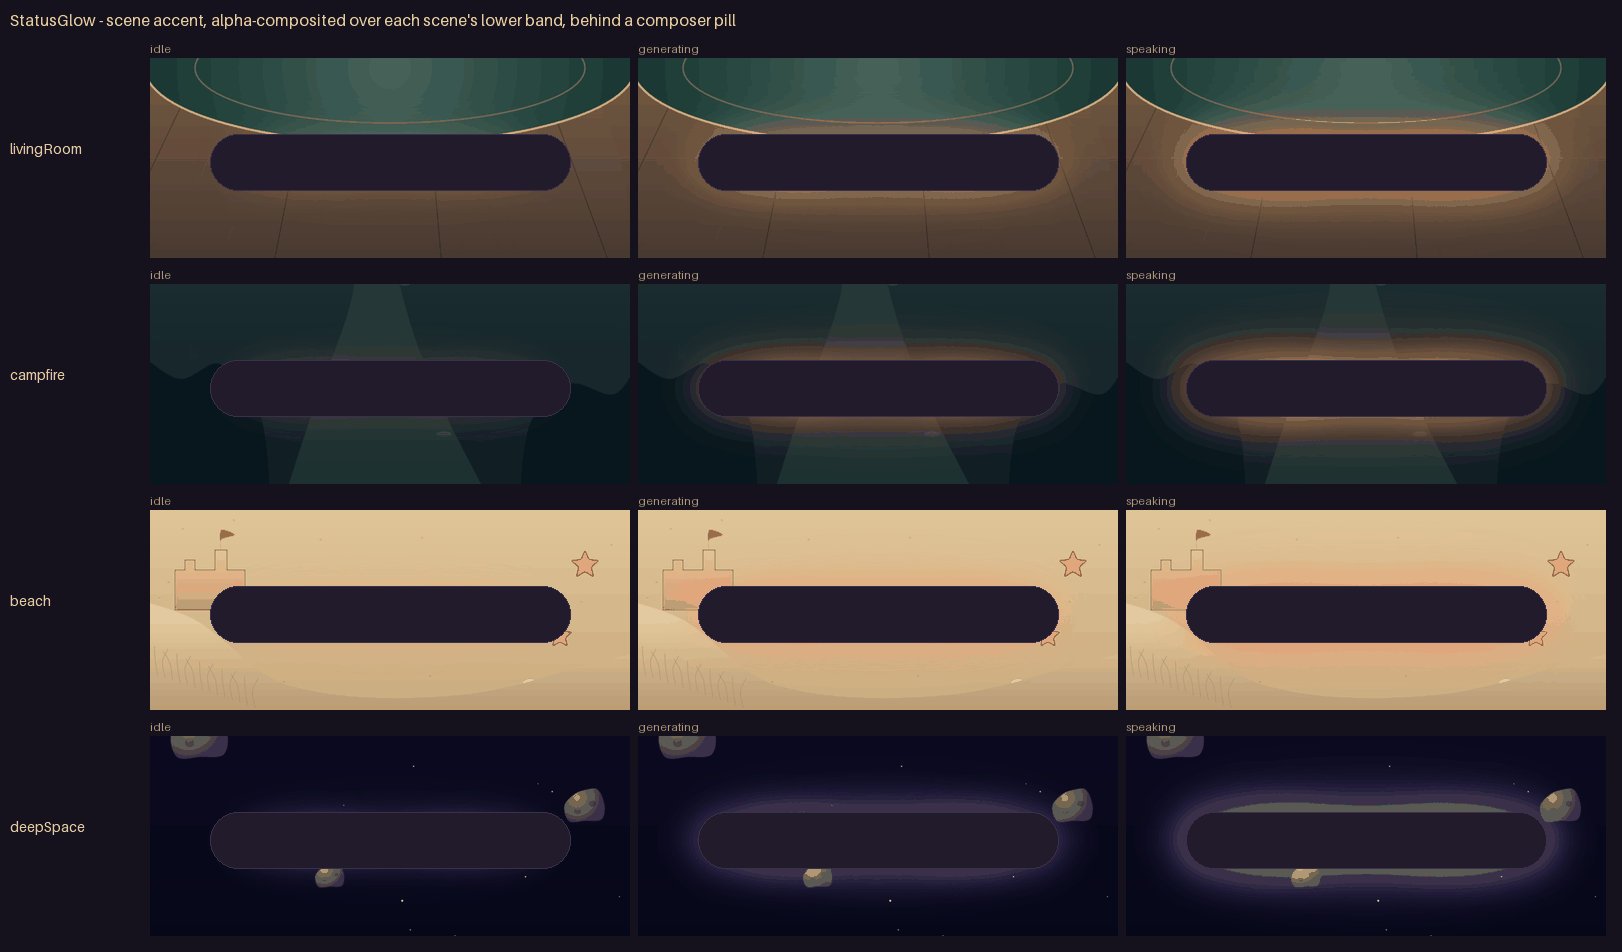
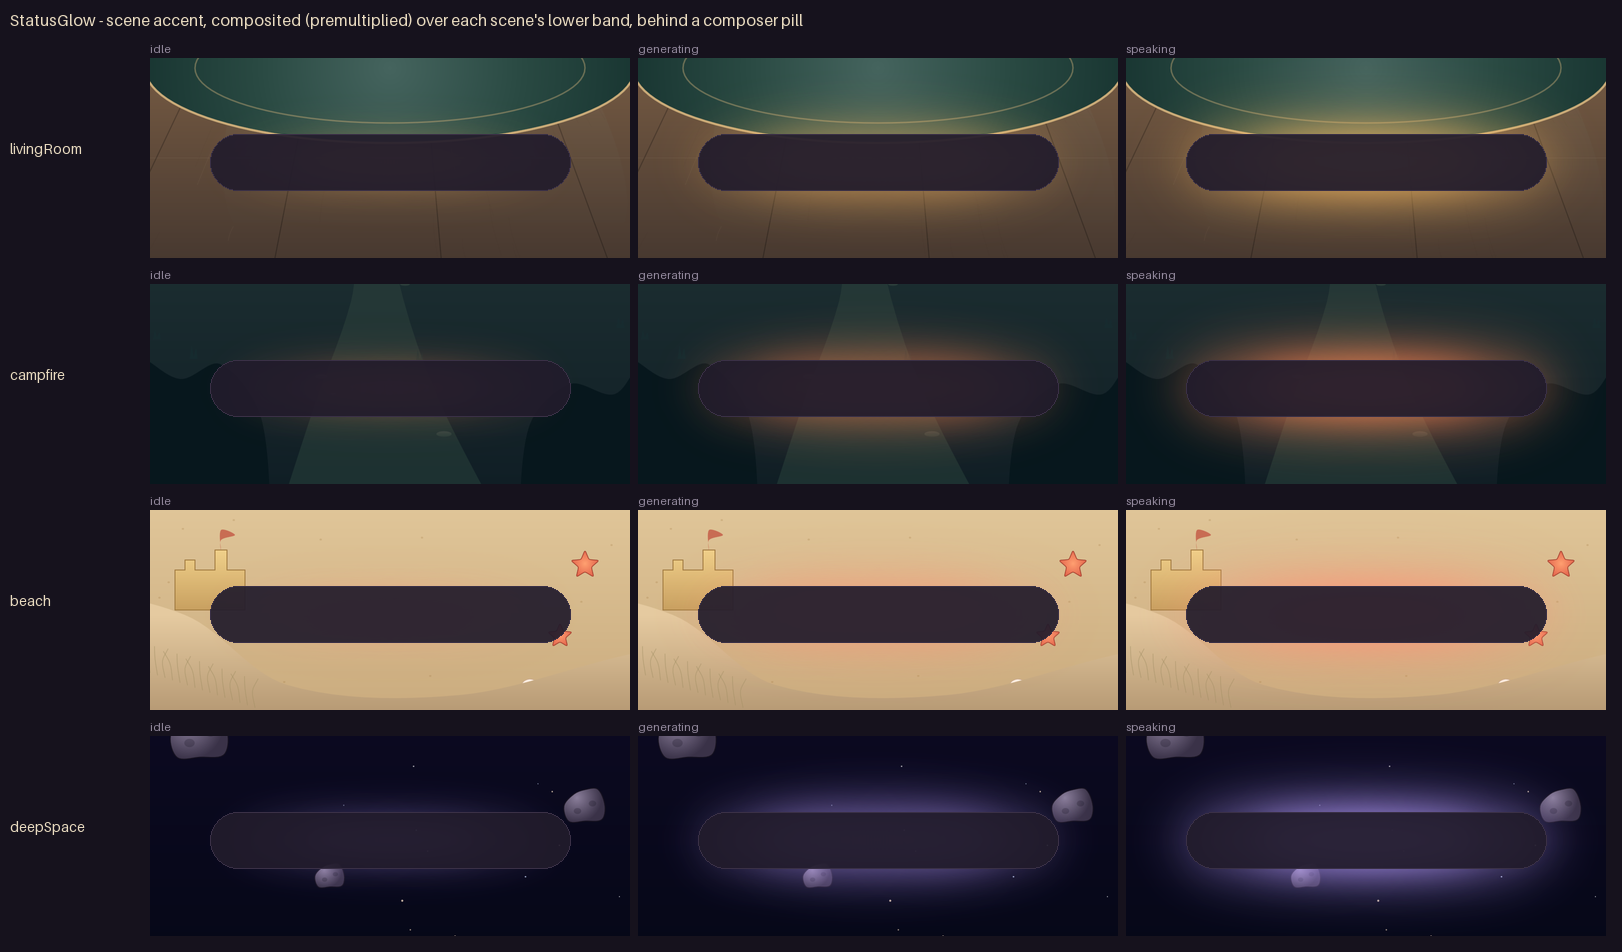
rive: StatusGlow reads as one smooth light; fix glow review compositing
The rings and the olive band came from the review sheet, not the paint: a
shared 128-colour palette (no dither) stepped the falloff and mapped violet to
grey-olive, and k/alpha colour recovery skewed hue at low alpha. Glow sheets are
now full colour and composited premultiplied (bg*(w-k)/255 + k). The art had
two lobes with a dim centre; rebalanced core/lobes/haze/shimmer to one peak.
glow_zoom.png and glow_profile.txt prove a monotonic falloff in all 12 cases.

diff --git a/rive/tools/review_ui_kit.py b/rive/tools/review_ui_kit.py
@@ -73,7 +73,8 @@ def font(sz: int) -> ImageFont.ImageFont:
     return ImageFont.load_default(size=sz)
 
 
-def strip_sheet(rows: list[tuple[str, list[tuple[str, Image.Image]]]], out: Path, title: str) -> None:
+def strip_sheet(rows: list[tuple[str, list[tuple[str, Image.Image]]]], out: Path, title: str,
+                quantize: bool = True) -> None:
     """rows: (row label, [(cell label, image)])"""
     cw = max(im.width for _, cells in rows for _, im in cells)
     ch = max(im.height for _, cells in rows for _, im in cells)
@@ -90,7 +91,9 @@ def strip_sheet(rows: list[tuple[str, list[tuple[str, Image.Image]]]], out: Path
             sheet.paste(im, (x, y + 18))
             dr.text((x, y + 2), cl, fill=(150, 140, 160), font=font(11))
     out.parent.mkdir(parents=True, exist_ok=True)
-    sheet.quantize(colors=128, method=Image.Quantize.MEDIANCUT, dither=Image.Dither.NONE).save(out, optimize=True)
+    if quantize:  # crisp vector sheets only; smooth gradients keep full colour
+        sheet = sheet.quantize(colors=128, method=Image.Quantize.MEDIANCUT, dither=Image.Dither.NONE)
+    sheet.save(out, optimize=True)
     print("wrote", out.relative_to(ROOT))
 
 
@@ -159,23 +162,34 @@ def _pad(im: Image.Image, size: int) -> Image.Image:
     return c
 
 
-def glow_alpha(phase_args: str, frame: int, tag: str, accent: str = "FFF4B860") -> Image.Image:
-    """RGBA glow recovered from black + white backdrop captures."""
+def glow_layers(phase_args: str, frame: int, tag: str, accent: str = "FFF4B860") -> tuple[Image.Image, Image.Image]:
+    """The glow captured over black (k = colour x alpha, premultiplied) and over white (w).
+
+    Over any background the exact result is bg * (w - k) / 255 + k, per channel: no division, so
+    no hue error at low alpha (the earlier colour = k / alpha recovery amplified 8-bit noise)."""
     args = f"{phase_args} --data=accent={accent} --advance={frame}"
     k = shot(project("FF000000"), "StatusGlow", WORK / "shots" / tag / "k.png", args, (480, 200))
     w = shot(project("FFFFFFFF"), "StatusGlow", WORK / "shots" / tag / "w.png", args, (480, 200))
-    alpha = ImageChops.invert(ImageChops.subtract(w.convert("L"), k.convert("L")))
-    rgb = Image.new("RGB", k.size)
-    kp, ap = k.load(), alpha.load()
-    rp = rgb.load()
-    for y in range(k.height):
-        for x in range(k.width):
-            a = ap[x, y]
-            if a:
-                rp[x, y] = tuple(min(255, round(v * 255 / a)) for v in kp[x, y])
-    rgba = rgb.convert("RGBA")
-    rgba.putalpha(alpha)
-    return rgba
+    return k, w
+
+
+def over(bg: Image.Image, k: Image.Image, w: Image.Image) -> Image.Image:
+    inv = ImageChops.subtract(w, k)                      # 255 * (1 - alpha), per channel
+    return ImageChops.add(ImageChops.multiply(bg.convert("RGB"), inv), k)
+
+
+def alpha_of(k: Image.Image, w: Image.Image) -> Image.Image:
+    return ImageChops.invert(ImageChops.subtract(w, k).convert("L"))
+
+
+PILL = (60, 76, 420, 132)
+
+
+def draw_pill(im: Image.Image) -> Image.Image:
+    im = im.convert("RGBA")
+    layer = Image.new("RGBA", im.size, (0, 0, 0, 0))
+    ImageDraw.Draw(layer).rounded_rectangle(PILL, radius=28, fill=(33, 27, 43, 235), outline=(58, 48, 70, 255))
+    return Image.alpha_composite(im, layer).convert("RGB")
 
 
 def glow(pool: ThreadPoolExecutor) -> None:
@@ -187,36 +201,47 @@ def glow(pool: ThreadPoolExecutor) -> None:
               ("idle>speaking", change("phase=idle", "phase=speaking"), [1, 7, 13, 19, 25, 31])]
     rows = run_rows(p, "StatusGlow", specs, (480, 200), "glow", pool)
     rows = [(lab, [(cl, im.resize((240, 100), Image.LANCZOS)) for cl, im in cells]) for lab, cells in rows]
-    strip_sheet(rows, OUT / "glow_phases.png", "StatusGlow - phases over ink #16121D, every 500 ms")
-    # over each scene: alpha-recovered glow composited on the scene rest pose, behind a composer pill
-    cells = []
-    futs = {}
-    for s in SCENES:
-        for ph in ("idle", "generating", "speaking"):
-            futs[(s, ph)] = pool.submit(glow_alpha, f"--data=phase={ph}", 91, f"glow_{s}_{ph}", SCENE_ACCENT[s])
+    # smooth light: never palette-quantise glow sheets (a shared 128-colour palette is what drew
+    # stepped rings and mapped violet to olive in the first sheets)
+    strip_sheet(rows, OUT / "glow_phases.png", "StatusGlow - phases over ink #16121D, every 500 ms", quantize=False)
+    phases = ("idle", "generating", "speaking")
+    futs = {(s, ph): pool.submit(glow_layers, f"--data=phase={ph}", 91, f"glow_{s}_{ph}", SCENE_ACCENT[s])
+            for s in SCENES for ph in phases}
     scene_imgs = {s: pool.submit(shot, ROOT / "rive" / "scenes" / s, "Scene", WORK / "shots" / f"scene_{s}.png",
                                  "--advance=1", (1080, 1920)) for s in SCENES}
-    rows = []
+    rows, zooms, report = [], [], []
+    worst_border, all_mono = 0, True
     for s in SCENES:
-        bg = scene_imgs[s].result().crop((60, 1500, 1020, 1900)).resize((480, 200), Image.LANCZOS).convert("RGBA")
+        bg = scene_imgs[s].result().crop((60, 1500, 1020, 1900)).resize((480, 200), Image.LANCZOS)
         row = []
-        for ph in ("idle", "generating", "speaking"):
-            g = futs[(s, ph)].result()
-            comp = Image.alpha_composite(bg, g)
-            dr = ImageDraw.Draw(comp)
-            dr.rounded_rectangle((60, 76, 420, 132), radius=28, fill=(33, 27, 43, 235), outline=(58, 48, 70, 255))
-            row.append((ph, comp.convert("RGB")))
+        for ph in phases:
+            k, w = futs[(s, ph)].result()
+            comp = draw_pill(over(bg, k, w))
+            row.append((ph, comp))
+            if (s in ("livingRoom", "campfire") and ph in ("generating", "speaking")) or (s == "deepSpace" and ph == "speaking"):
+                # left end + top falloff at 3x, nearest-neighbour so no smoothing hides steps
+                zooms.append((f"{s} {ph}", comp.crop((0, 30, 160, 110)).resize((480, 240), Image.NEAREST)))
+            a = alpha_of(k, w)
+            border = max(max(a.getpixel((x, y)) for x in range(480) for y in (0, 199)),
+                         max(a.getpixel((x, y)) for y in range(200) for x in (0, 479)))
+            worst_border = max(worst_border, border)
+            col = [a.getpixel((240, y)) for y in range(0, PILL[1] + 1, 4)]           # top edge -> pill
+            lin = [a.getpixel((x, 104)) for x in range(0, PILL[0] + 1, 4)]           # left edge -> pill
+            mono = all(b2 >= b1 - 1 for b1, b2 in zip(col, col[1:])) and all(b2 >= b1 - 1 for b1, b2 in zip(lin, lin[1:]))
+            all_mono &= mono
+            hues = {comp.getpixel((x, y)) for x, y in ((240, 60), (120, 70), (40, 104))}
+            report.append(f"{'PASS' if mono else 'FAIL'}  {s:10} {ph:10} alpha top->pill x=240 {col}  "
+                          f"left->pill y=104 {lin}  border {border}/255  samples {sorted(hues)}")
         rows.append((s, row))
     strip_sheet(rows, OUT / "glow_over_scenes.png",
-                "StatusGlow - scene accent, alpha-composited over each scene's lower band, behind a composer pill")
-    # edge check: alpha at the artboard border must be ~0 (no hard clip edge)
-    worst = 0
-    for (s, ph), f in futs.items():
-        a = f.result().getchannel("A")
-        border = [a.getpixel((x, y)) for x in range(480) for y in (0, 199)] + \
-                 [a.getpixel((x, y)) for y in range(200) for x in (0, 479)]
-        worst = max(worst, max(border))
-    print(f"StatusGlow max border alpha: {worst}/255")
+                "StatusGlow - scene accent, composited (premultiplied) over each scene's lower band, behind a composer pill",
+                quantize=False)
+    strip_sheet([("3x crops", zooms)], OUT / "glow_zoom.png",
+                "StatusGlow - 3x nearest-neighbour crops of the left/top falloff (no smoothing, no palette)",
+                quantize=False)
+    text = "\n".join(report) + f"\nmax border alpha {worst_border}/255; falloff monotonic: {all_mono}\n"
+    (OUT / "glow_profile.txt").write_text(text)
+    print(text)
 
 
 def tool(pool: ThreadPoolExecutor) -> None:

diff --git a/rive/tools/gen_ui_kit.py b/rive/tools/gen_ui_kit.py
@@ -477,15 +477,15 @@ def status_glow(bd: str | None) -> list[El]:
     accent = b.color("accent", ACCENT)
     b.rm = b.boolean("reduceMotion", False)
 
-    shimmer = shape("Shimmer", ell(90, 26), b.fill_b(accent, feather=18), opacity=0.0)
+    shimmer = shape("Shimmer", ell(110, 28), b.fill_b(accent, feather=26), opacity=0.0)
     shimmer_n = node("ShimmerTravel", shimmer, x=-150)
-    core = shape("Core", ell(230, 40), b.fill_b(accent, feather=26), opacity=0.85)
+    core = shape("Core", ell(200, 40), b.fill_b(accent, feather=34), opacity=0.9)
     breath = node("Breath", core)
-    lobe_l = shape("LobeL", ell(150, 56), b.fill_b(accent, feather=34), opacity=0.55)
-    lobe_r = shape("LobeR", ell(150, 54), b.fill_b(accent, feather=34), opacity=0.55)
-    drift_l = node("DriftL", lobe_l, x=-104)
-    drift_r = node("DriftR", lobe_r, x=104)
-    haze = shape("Haze", ell(350, 70), b.fill_b(accent, feather=44), opacity=0.45)
+    lobe_l = shape("LobeL", ell(170, 50), b.fill_b(accent, feather=40), opacity=0.3)
+    lobe_r = shape("LobeR", ell(170, 50), b.fill_b(accent, feather=40), opacity=0.3)
+    drift_l = node("DriftL", lobe_l, x=-70)
+    drift_r = node("DriftR", lobe_r, x=70)
+    haze = shape("Haze", ell(360, 72), b.fill_b(accent, feather=50), opacity=0.5)
     level = node("Level", shimmer_n, breath, drift_l, drift_r, haze)
     glow = node("Glow", level, x=240, y=104)
 
@@ -498,15 +498,15 @@ def status_glow(bd: str | None) -> list[El]:
 
     # ambient per phase (inner nodes only), gated by reduceMotion
     drift = b.anim("Waiting_drift", 240, [
-        b.T(drift_l, x=[(0, -104), (120, -70), (240, -104)], y=[(0, 0), (60, -4), (180, 4), (240, 0)]),
-        b.T(drift_r, x=[(0, 104), (120, 70), (240, 104)], y=[(0, 0), (60, 4), (180, -4), (240, 0)]),
+        b.T(drift_l, x=[(0, -70), (120, -92), (240, -70)], y=[(0, 0), (60, -4), (180, 4), (240, 0)]),
+        b.T(drift_r, x=[(0, 70), (120, 92), (240, 70)], y=[(0, 0), (60, 4), (180, -4), (240, 0)]),
         b.T(breath, scaleX=[(0, 1), (120, 0.9), (240, 1)], scaleY=[(0, 1), (240, 1)], opacity=[(0, 1), (240, 1)]),
     ], loop=True)
     breathe = b.anim("Generating_breathe", 192, [
         b.T(breath, scaleX=[(0, 1), (96, 1.16), (192, 1)], scaleY=[(0, 1), (96, 1.3), (192, 1)],
             opacity=[(0, 1), (96, 0.72), (192, 1)]),
-        b.T(drift_l, x=[(0, -104), (96, -112), (192, -104)], y=[(0, 0), (192, 0)]),
-        b.T(drift_r, x=[(0, 104), (96, 112), (192, 104)], y=[(0, 0), (192, 0)]),
+        b.T(drift_l, x=[(0, -70), (96, -80), (192, -70)], y=[(0, 0), (192, 0)]),
+        b.T(drift_r, x=[(0, 70), (96, 80), (192, 70)], y=[(0, 0), (192, 0)]),
     ], loop=True)
     shim = b.anim("Speaking_shimmer", 96, [
         b.T(shimmer_n, x=[(0, -150, "linear"), (96, 150, "linear")]),
@@ -518,7 +518,7 @@ def status_glow(bd: str | None) -> list[El]:
         b.T(breath, scaleX=[(0, 1), (10, 1.12, b.out), (28, 0.96)], scaleY=[(0, 1), (10, 1.2, b.out), (28, 0.94)],
             opacity=[(0, 1), (10, 1.0), (28, 0.55)]),
     ])
-    rest = {drift_l: {"x": -104, "y": 0}, drift_r: {"x": 104, "y": 0}, breath: {"scaleX": 1, "scaleY": 1, "opacity": 1},
+    rest = {drift_l: {"x": -70, "y": 0}, drift_r: {"x": 70, "y": 0}, breath: {"scaleX": 1, "scaleY": 1, "opacity": 1},
             shimmer_n: {"x": -150}, shimmer: {"opacity": 0}}
     b.gate_layer("Ambient", [(drift, [(phase, "waiting"), (b.rm, False)]),
                              (breathe, [(phase, "generating"), (b.rm, False)]),

diff --git a/rive/CRITIC_ITERATIONS.md b/rive/CRITIC_ITERATIONS.md
@@ -84,6 +84,7 @@ reads at 48 dp, no clip-art, no neon). Scores are my own reads of the contact sh
 | 1 | 6.5 | Every state built and bound. Orb: glossy "candy" highlight; listening interior a muddy brown (accent 16 % over plum); at `level` 1 the echo ring clipped on the 96 px edge; idle→typing showed the mic and arrow blurred together for ~3 frames; error dim (62 %) read as a dirty brown disabled button; raw mic levels would jitter the ring. Glow: soft everywhere, but mostly hidden behind a composer pill; waiting drift hard to see. Mark: lenses touching with a blob for a bridge; halo cut by the artboard edge; brown lens tint. Tools and toggle already clean. | — |
 | 2 | 7.8 | Echo/pulse inside the frame; level ramps over ~8 frames; listening reads as a hollow lit ring; gloss now a soft sheen; glyph swap is clean (mic gone by 100 ms, arrow pops with overshoot at ~200 ms); error is a shake then a subdued (78 %) disc; glow lobes peek past the pill ends over all four scenes. | Echo 1.15×, pulse 1.05×; `level` through RangeMapper → DataConverterInterpolator (0.14 s); tint 7–22 %; gloss alpha 0x38→0x24; hides 100 ms; error dim 0.78; glow haze 350 px, lobes at ±104 with a ±34 px drift. |
 | 3 | 8.4 | Mark: real arched bridge, lenses spaced, halo fully inside the frame (border = backdrop), sparkle sits clear of the frame; glass tint barely there so the halo glows through. Behavioural proofs all green (`review/proof.txt`): loop seams identical (two spins differ only by antialiasing, worst Δ 19/255), every change ends exactly on its rest pose, reduceMotion captures are pixel-still, every colour property reaches its paint. | Mark geometry and halo (150×76, feather 30); seam holds on every looping value; memory twinkle swings back instead of wrapping; review captures run on per-thread project copies (parallel `rive` builds of one dir raced). |
+| 4 (coordinator review, StatusGlow) | 8.7 | Reported: stepped concentric rings over livingRoom/campfire and an olive band inside the violet deepSpace glow. Diagnosis: the raw render over black had 0 off-hue pixels and a per-pixel second difference of at most 3/255, so neither defect was in the paint. Both came from the review sheet: it was palette-quantised to 128 colours shared by all four scenes, with no dither. That drew the rings, and it mapped violet (117,100,170) to the palette's grey-olive (91,89,83). The compositing also recovered colour as k/alpha, which shifts hue at low alpha (1,884 off-hue pixels). The art did have one real flaw: two lobes with a dimmer centre (idle 82 → 69 → 81), which read as two lights. | The glow is now one light: core 200×40 with feather 34, lobes 170×50 with feather 40 at ±70 and 30 % opacity, haze 360×72 with feather 50, shimmer 110×28 with feather 26. Every phase has a single peak. Glow sheets are no longer palette-quantised, and the composite is premultiplied (bg·(w−k)/255 + k, no division). New `glow_zoom.png` (3× nearest-neighbour crops) and `glow_profile.txt`: alpha from the top and left edges to the pill rises monotonically in all 12 scene × phase cases; maximum border alpha is 3/255. |
 
 Open points I would still look at on a device: feathered glow cost on a CPU-throttled emulator
 (5 feathered ellipses, CLI only proves they are soft), and whether rive_native renders
